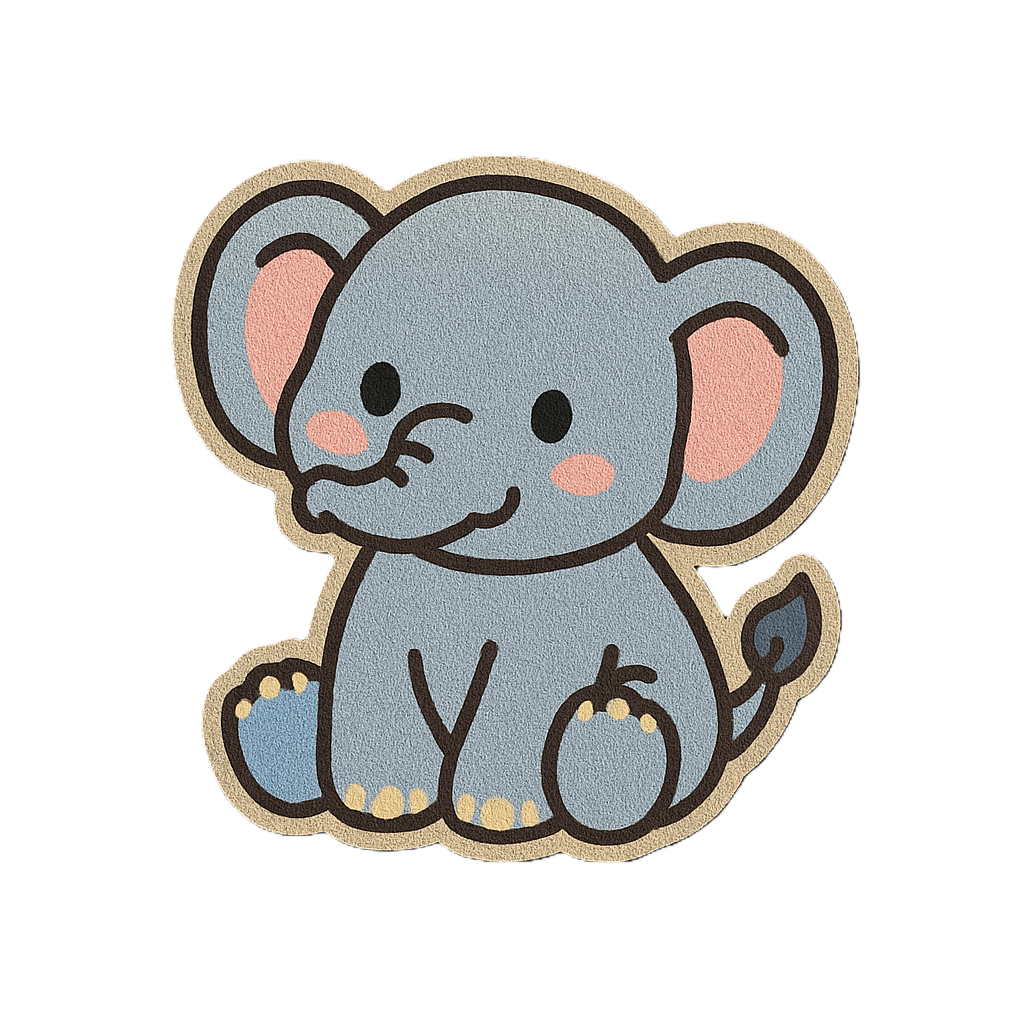
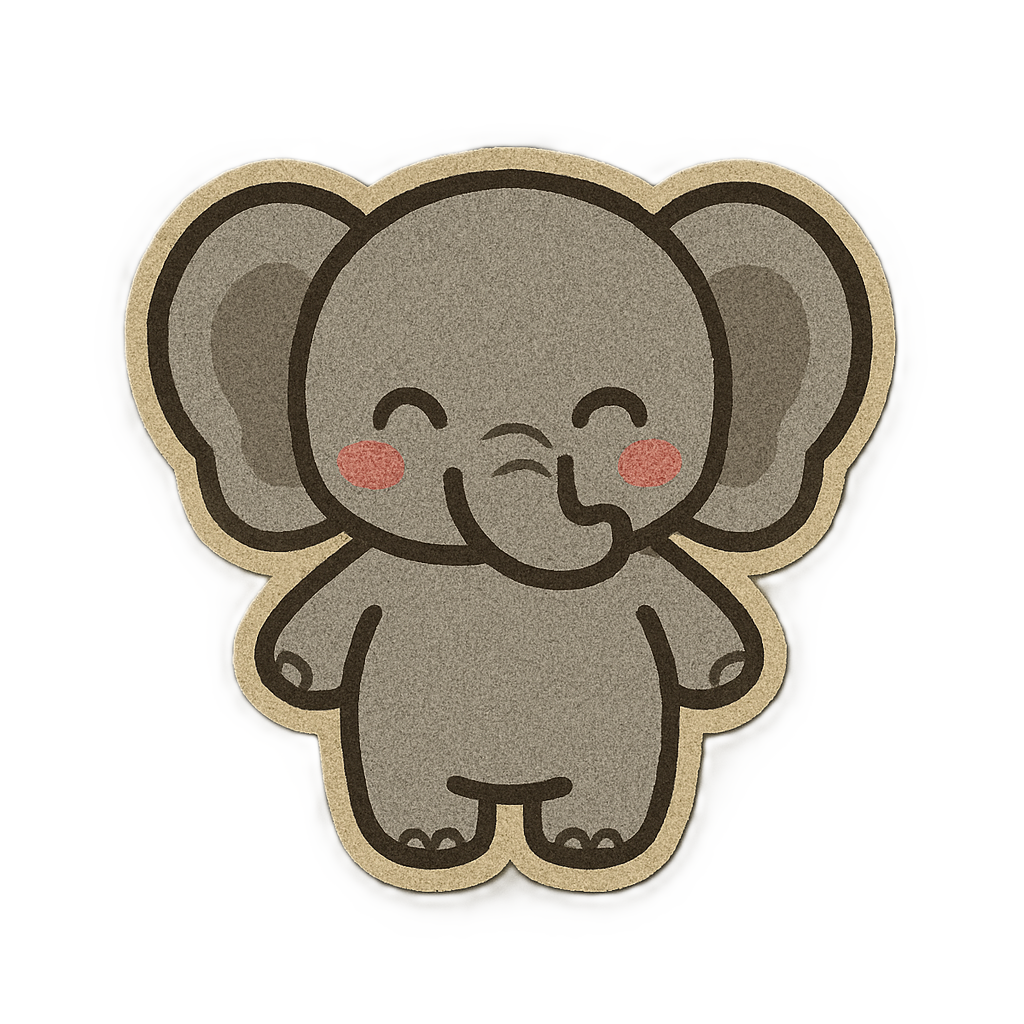
pr올릴 최신 꺼

diff --git a/src/components/Home.jsx b/src/components/Home.jsx
@@ -7,7 +7,6 @@ import '../styles/Home.css';
 export default function Home() {
   const [products, setProducts] = useState([]);
   const [popular, setPopular] = useState([]);
-  const [newItems, setNewItems] = useState([]);
   const [liked, setLiked] = useState([]);
   const navigate = useNavigate();
   const { user } = useUser();
@@ -19,45 +18,68 @@ export default function Home() {
   ];
 
   const loadProducts = async () => {
+    const likedItems = JSON.parse(localStorage.getItem('liked') || '[]');
+
     try {
       const res = await axiosInstance.get('/products');
       const official = res.data;
       const shared = JSON.parse(localStorage.getItem('sharedWappens') || '[]');
-      const merged = [...official, ...shared].map((p, i) => ({
-        ...p,
-        images: p.images?.length ? p.images : [p.image || '/assets/default.png'],
-        category: p.category || (p.title ? '유저디자인' : ''),
-        name: p.name || p.title || '유저 디자인',
-        createdAt: p.createdAt || new Date().toISOString(),
-        nickname: p.category === '유저디자인'
-          ? p.createdBy || p.owner || currentUserEmail
-          : '', // 일반 상품은 표시 안 함
-        uniqueKey: `${p.id}-${p.owner || p.author || i}`
-      }));
+
+      const merged = [...official, ...shared].map((p, i) => {
+        const uniqueKey = `${p.id}-${p.owner || p.author || i}`;
+        const likedMatch = likedItems.find(lp => `${lp.id}-${lp.owner || lp.author || i}` === uniqueKey);
+
+        return {
+          ...p,
+          images: p.images?.length ? p.images : [p.image || '/assets/default.png'],
+          category: p.category || (p.title ? '유저디자인' : ''),
+          name: p.name || p.title || '유저 디자인',
+          createdAt: p.createdAt || new Date().toISOString(),
+          nickname: p.category === '유저디자인'
+            ? p.createdBy || p.owner || currentUserEmail
+            : '',
+          uniqueKey,
+          likes: likedMatch ? 1 : 0
+        };
+      });
 
       setProducts(merged);
-      setPopular([...merged].sort((a, b) => (b.likes || 0) - (a.likes || 0)).slice(0, 10));
-      setNewItems([...merged].sort((a, b) => new Date(b.createdAt) - new Date(a.createdAt)).slice(0, 10));
+      setPopular(
+        [...merged]
+          .filter(p => (p.likes || 0) > 0)
+          .sort((a, b) => (b.likes || 0) - (a.likes || 0))
+          .slice(0, 10)
+      );
     } catch {
       console.warn('서버 실패, 로컬에서 대체');
       const local = JSON.parse(localStorage.getItem('products') || '[]');
       const shared = JSON.parse(localStorage.getItem('sharedWappens') || '[]');
 
-      const merged = [...local, ...shared].map((p, i) => ({
-        ...p,
-        images: p.images?.length ? p.images : [p.image || '/assets/default.png'],
-        category: p.category || (p.title ? '유저디자인' : ''),
-        name: p.name || p.title || '유저 디자인',
-        createdAt: p.createdAt || new Date().toISOString(),
-        nickname: p.category === '유저디자인'
-          ? p.createdBy || p.owner || currentUserEmail
-          : '',
-        uniqueKey: `${p.id}-${p.owner || p.author || i}`
-      }));
+      const merged = [...local, ...shared].map((p, i) => {
+        const uniqueKey = `${p.id}-${p.owner || p.author || i}`;
+        const likedMatch = likedItems.find(lp => `${lp.id}-${lp.owner || lp.author || i}` === uniqueKey);
+
+        return {
+          ...p,
+          images: p.images?.length ? p.images : [p.image || '/assets/default.png'],
+          category: p.category || (p.title ? '유저디자인' : ''),
+          name: p.name || p.title || '유저 디자인',
+          createdAt: p.createdAt || new Date().toISOString(),
+          nickname: p.category === '유저디자인'
+            ? p.createdBy || p.owner || currentUserEmail
+            : '',
+          uniqueKey,
+          likes: likedMatch ? 1 : 0
+        };
+      });
 
       setProducts(merged);
-      setPopular([...merged].sort((a, b) => (b.likes || 0) - (a.likes || 0)).slice(0, 10));
-      setNewItems([...merged].sort((a, b) => new Date(b.createdAt) - new Date(a.createdAt)).slice(0, 10));
+      setPopular(
+        [...merged]
+          .filter(p => (p.likes || 0) > 0)
+          .sort((a, b) => (b.likes || 0) - (a.likes || 0))
+          .slice(0, 10)
+      );
     }
   };
 
@@ -69,11 +91,24 @@ export default function Home() {
   const toggleLike = (product) => {
     const current = JSON.parse(localStorage.getItem('liked') || '[]');
     const exists = current.some(p => p.uniqueKey === product.uniqueKey);
+
+    if (!product.likes) product.likes = 0;
+    product.likes += exists ? -1 : 1;
+
     const updated = exists
       ? current.filter(p => p.uniqueKey !== product.uniqueKey)
       : [{ ...product }, ...current];
+
     localStorage.setItem('liked', JSON.stringify(updated));
     setLiked(updated);
+
+    setProducts(prev =>
+      prev.map(p =>
+        p.uniqueKey === product.uniqueKey
+          ? { ...p, likes: product.likes }
+          : p
+      )
+    );
   };
 
   const isLiked = (key) => liked.some(p => p.uniqueKey === key);
@@ -88,21 +123,24 @@ export default function Home() {
     }
   };
 
-  const renderProductCard = (p) => (
-    <div key={p.uniqueKey} className="product-card" onClick={() => navigate(`/product/${p.id}?category=${p.category}`)}>
-      <img src={p.images[0]} alt={p.name} />
+  const renderProductCard = (p, showLike = true) => (
+  <div key={p.uniqueKey} className="product-card" onClick={() => navigate(`/product/${p.id}?category=${p.category}`)}>
+    <img src={p.images[0]} alt={p.name} onError={(e) => (e.target.src = '/assets/default.png')} />
+    {showLike && (
       <button className="like-button" onClick={(e) => { e.stopPropagation(); toggleLike(p); }}>
         {isLiked(p.uniqueKey) ? '💖' : '🤍'}
       </button>
-      <div className="product-info">
-        <h3>{p.name}</h3>
-        {p.category === '유저디자인' && p.nickname && (
-          <p className="creator">by {p.nickname}</p>
-        )}
-        <p className="price">₩{(p.price ?? 0).toLocaleString()}</p>
-      </div>
+    )}
+    <div className="product-info">
+      <h3>{p.name}</h3>
+      {p.category === '유저디자인' && p.nickname && (
+        <p className="creator">by {p.nickname}</p>
+      )}
+      <p className="price">₩{(p.price ?? 0).toLocaleString()}</p>
     </div>
-  );
+  </div>
+);
+
 
   return (
     <div className="home-wrapper">
@@ -121,16 +159,10 @@ export default function Home() {
           <section>
             <h2 className="section-title">인기 와펜 상품</h2>
             <div className="product-scroll with-scroll">
-              {popular.map(renderProductCard)}
+              {popular.map(p => renderProductCard(p, false))}
             </div>
           </section>
 
-          <section>
-            <h2 className="section-title">신상품</h2>
-            <div className="product-scroll with-scroll">
-              {newItems.map(renderProductCard)}
-            </div>
-          </section>
         </main>
       </div>
     </div>

diff --git a/src/components/CategoryProductPage.jsx b/src/components/CategoryProductPage.jsx
@@ -1,4 +1,3 @@
-//  CategoryProductPage.jsx (유저디자인만 이메일 표시)
 import React, { useEffect, useState } from 'react';
 import { useSearchParams, useNavigate } from 'react-router-dom';
 import axiosInstance from '../api/axiosInstance';
@@ -15,6 +14,7 @@ export default function CategoryProductPage() {
   const navigate = useNavigate();
   const { user } = useUser();
   const currentUserEmail = user?.email || 'user';
+  const [liked, setLiked] = useState([]);
 
   const categoryList = [
     '전체', '의류', '굿즈', '패션', '빈티지', '문구/오피스', '스트랩',
@@ -22,6 +22,8 @@ export default function CategoryProductPage() {
   ];
 
   useEffect(() => {
+    setLiked(JSON.parse(localStorage.getItem('liked') || '[]'));
+
     const cat = searchParams.get('category') || '전체';
     const keyword = searchParams.get('keyword') || '';
     const sort = searchParams.get('sort') || '최신순';
@@ -119,6 +121,18 @@ export default function CategoryProductPage() {
     setVisibleCount(prev => prev + 8);
   };
 
+  const toggleLike = (product) => {
+    const current = JSON.parse(localStorage.getItem('liked') || '[]');
+    const exists = current.some(p => p.id === product.id);
+    const updated = exists
+      ? current.filter(p => p.id !== product.id)
+      : [{ ...product }, ...current];
+    localStorage.setItem('liked', JSON.stringify(updated));
+    setLiked(updated);
+  };
+
+  const isLiked = (id) => liked.some(p => p.id === id);
+
   return (
     <div className="category-page">
       <aside className="category-sidebar">
@@ -156,6 +170,7 @@ export default function CategoryProductPage() {
                 <div
                   key={p.uniqueKey}
                   className="product-card"
+                  style={{ position: 'relative' }}
                   onClick={() => navigate(`/product/${p.id}?category=${p.category}`)}
                 >
                   <img
@@ -163,6 +178,25 @@ export default function CategoryProductPage() {
                     alt={p.name}
                     onError={(e) => (e.target.src = '/assets/default.png')}
                   />
+                  {/* 좋아요 버튼 */}
+                  <button
+                    onClick={(e) => {
+                      e.stopPropagation();
+                      toggleLike(p);
+                    }}
+                    style={{
+                      position: 'absolute',
+                      top: '10px',
+                      right: '10px',
+                      background: 'none',
+                      border: 'none',
+                      fontSize: '1.5rem',
+                      cursor: 'pointer'
+                    }}
+                  >
+                    {isLiked(p.id) ? '💖' : '🤍'}
+                  </button>
+
                   <h3>{p.name}</h3>
                   {p.createdBy && (
                     <p style={{ fontSize: '13px', color: '#666' }}>by {p.createdBy}</p>

diff --git a/src/components/WappenCustomize.jsx b/src/components/WappenCustomize.jsx
@@ -19,13 +19,15 @@ export default function WappenCustomize() {
   const [activeTab, setActiveTab] = useState('strap');
 
   const strapTypes = ['strap_green', 'strap_black', 'strap_blue', 'strap_yellow', 'strap_red', 'strap_orange', 'strap_purple'];
-  const wappenTypes = [
-    '강아지', '강아지2', '강아지3', '고슴도치', '고양이', '곰', '곰2', '곰3', '늑대', '다람쥐',
-    '달', '도넛', '로고', '로고2', '로고3', '마리오', '무지개', '문어', '번개', '별고양이',
-    '사자', '수달', '여우', '외계인', '외계인2', '용', '차', '축구공', '카피바라', '커비',
-    '코끼리', '토끼', '톱니', '판다', '펭귄', '펭귄2', '해골', '햄버거', '호랑이', '호랑이2'
-  ];
-
+ const wappenTypes = [
+  '강아지', '강아지2', '강아지3', '고슴도치', '고양이', '곰', '곰2', '곰3', '늑대', '다람쥐',
+  '달', '도넛', '로고', '로고2', '로고3', '마리오', '무지개', '문어', '번개', '별고양이',
+  '사자', '수달', '여우', '외계인', '외계인2', '용', '차', '축구공', '카피바라', '커비',
+  '코끼리', '토끼', '톱니', '판다', '펭귄', '펭귄2', '해골', '햄버거', '호랑이', '호랑이2',
+  '교수팬더', '총카피바라', '강아지5', '카피바라3', '북극곰', '여우보드', '햄스터', '스키 여우',
+  '기타', '여우3', '카피바라2', '고양이4', '버섯', '꿀벌', '샌드위치', '기린', '케이크', '여우2',
+  '코끼리2', '부엉이2', '고양이3', '용2', '나무늘보', '개구리', '부엉이', '고양이2', '강아지4'
+];
 
   // 실제 존재하는 텍스트 이미지 파일 이름 기반 배열
   const textImageTypes = [

diff --git a/src/components/Login/LoginForm.jsx b/src/components/Login/LoginForm.jsx
@@ -133,12 +133,12 @@ export default function LoginForm() {
     }
   };
 
-  // ✅ 소셜 로그인 이동 함수
+  //  소셜 로그인 이동 함수
   const handleSocialLogin = (provider) => {
     const providers = {
-      카카오: "/oauth2/authorization/kakao",
-      네이버: "/oauth2/authorization/naver",
-      구글: "/oauth2/authorization/google",
+      카카오: "http://localhost:8080/oauth2/authorization/kakao",
+    네이버: "http://localhost:8080/oauth2/authorization/naver",
+    구글: "http://localhost:8080/oauth2/authorization/google",
     };
     if (providers[provider]) window.location.href = providers[provider];
   };
@@ -181,7 +181,7 @@ export default function LoginForm() {
           </p>
         </div>
 
-        {/* ✅ 소셜 로그인 안내 및 버튼 */}
+        {/*  소셜 로그인 안내 및 버튼 */}
         <div className="divider">또는 다른 서비스 계정으로 로그인</div>
         <div className="social-login-group">
           <button className="social-btn kakao" onClick={() => handleSocialLogin("카카오")}>

diff --git a/src/api/axiosInstance.js b/src/api/axiosInstance.js
@@ -10,7 +10,7 @@ const axiosInstance = axios.create({
   },
 });
 
-// ✅ 토큰 자동 주입
+//  토큰 자동 주입
 axiosInstance.interceptors.request.use(
   (config) => {
     const token = localStorage.getItem("access_token");
@@ -22,13 +22,13 @@ axiosInstance.interceptors.request.use(
   (error) => Promise.reject(error)
 );
 
-// ✅ 응답 에러 처리
+//  응답 에러 처리
 axiosInstance.interceptors.response.use(
   (response) => response,
   (error) => {
     const originalRequest = error.config;
 
-    // ✅ 다음 요청은 401이어도 세션 만료 알림 띄우지 않음
+    //  다음 요청은 401이어도 세션 만료 알림 띄우지 않음
     const skip401AlertEndpoints = [
       "/users/me",
       "/admin/check-auth",

diff --git a/src/components/Login/OAuthCallback.jsx b/src/components/Login/OAuthCallback.jsx
@@ -3,6 +3,7 @@ import React, { useEffect } from 'react';
 import { useNavigate, useLocation } from 'react-router-dom';
 import axiosInstance from '../../api/axiosInstance';
 import { useUser } from '../UserContext';
+import axiosNoApi from "../../api/axiosNoApi";
 
 export default function OAuthCallback() {
   const navigate = useNavigate();
@@ -20,7 +21,7 @@ export default function OAuthCallback() {
 
       const fetchUser = async () => {
         try {
-          const res = await axiosInstance.get('/users/me');
+          const res = await axiosNoApi.get('/users/me');
           const userData = {
             ...res.data,
             linkedSocials: [provider],

diff --git a/src/App.jsx b/src/App.jsx
@@ -102,7 +102,7 @@
             <Route path="/admin" element={<AdminRoute><AdminDashboard /></AdminRoute>} />
             <Route path="/login" element={<LoginForm />} />
             <Route path="/signup" element={<SignupForm />} />
-            <Route path="/oauth/callback" element={<OAuthCallback />} />
+            <Route path="/oauth/success" element={<OAuthCallback />} />
             <Route path="/find-id" element={<FindForm mode="id" onClose={() => window.history.back()} />} />
             <Route path="/find-pw" element={<FindForm mode="pw" onClose={() => window.history.back()} />} />
 

diff --git a/src/components/Login/SignupForm.jsx b/src/components/Login/SignupForm.jsx
@@ -82,9 +82,9 @@ export default function SignupForm() {
 
   const handleSocialLogin = (provider) => {
     const providers = {
-      카카오: "/oauth2/authorization/kakao",
-      네이버: "/oauth2/authorization/naver",
-      구글: "/oauth2/authorization/google",
+      카카오: "http://localhost:8080/oauth2/authorization/kakao",
+    네이버: "http://localhost:8080/oauth2/authorization/naver",
+    구글: "http://localhost:8080/oauth2/authorization/google",
     };
     if (providers[provider]) window.location.href = providers[provider];
   };

diff --git a/src/api/axiosNoApi.js b/src/api/axiosNoApi.js
@@ -1,0 +1,12 @@
+// src/api/axiosNoApi.js
+import axios from "axios";
+
+const axiosNoApi = axios.create({
+  baseURL: "http://localhost:8080", //  /api 빠짐
+  timeout: 10000,
+  headers: {
+    "Content-Type": "application/json",
+  },
+});
+
+export default axiosNoApi;
